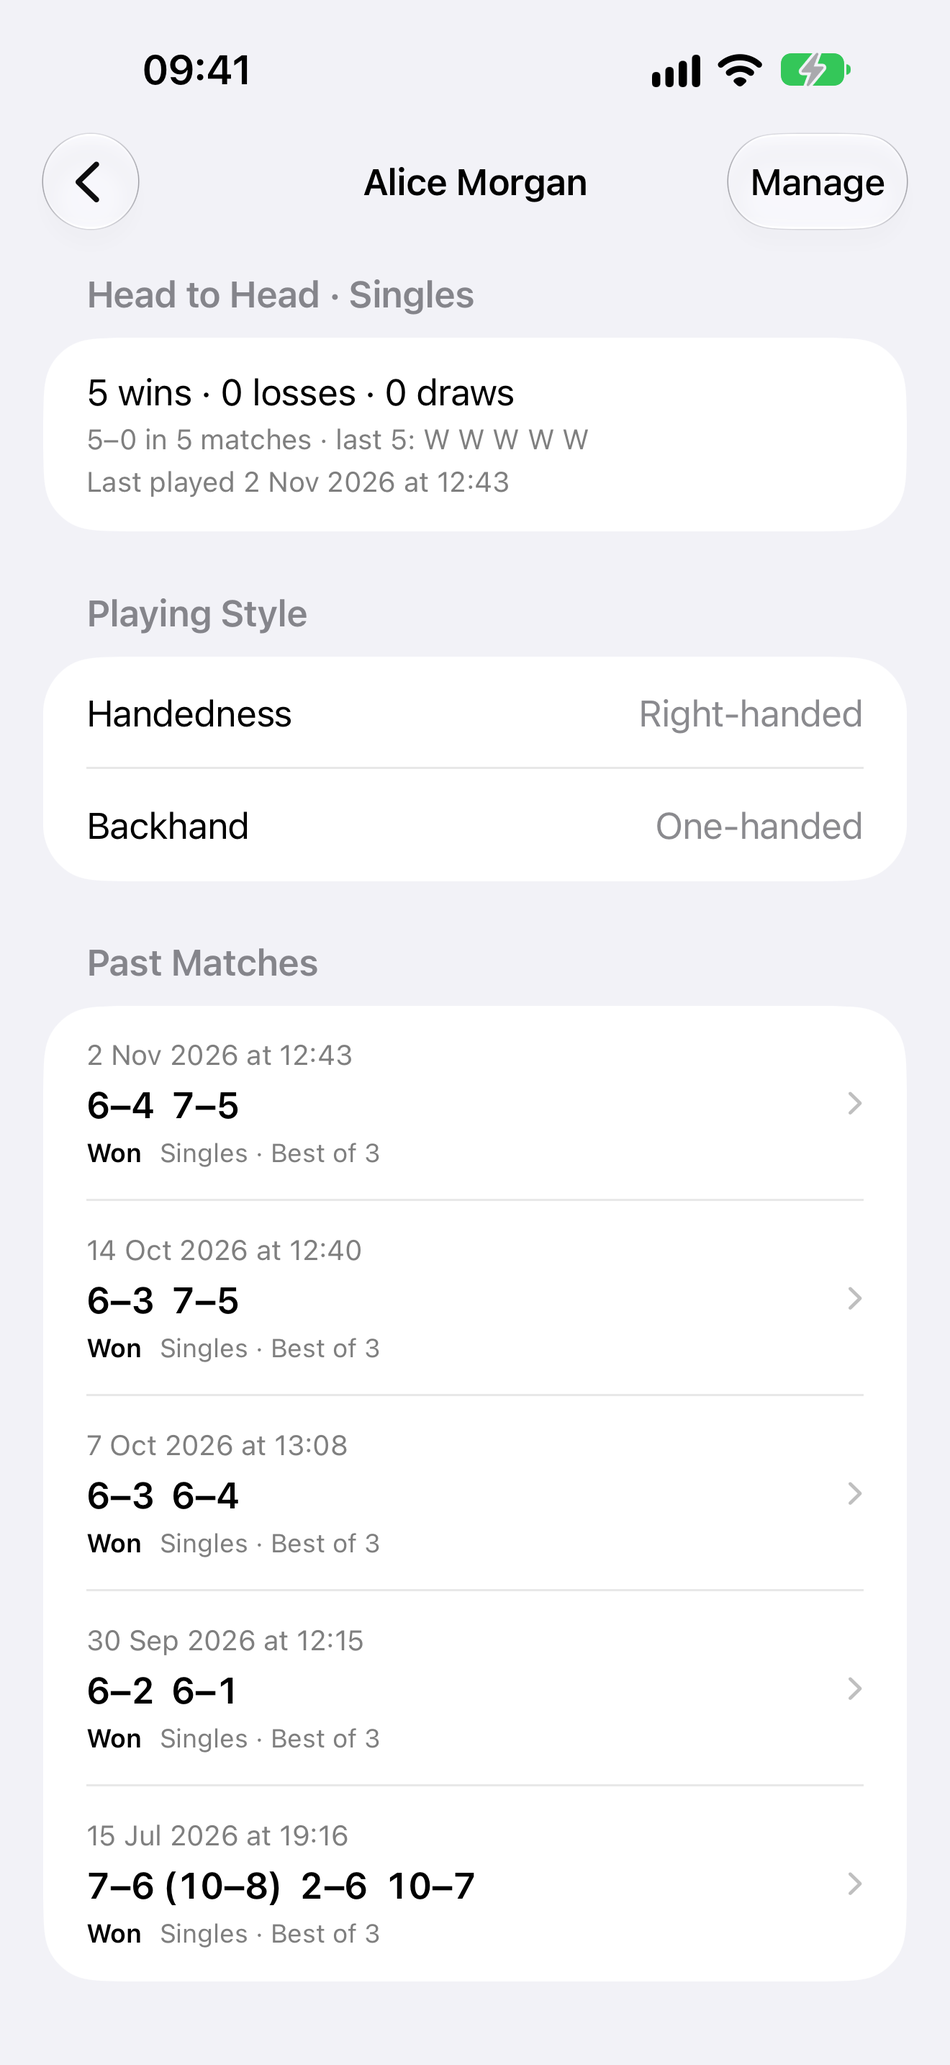
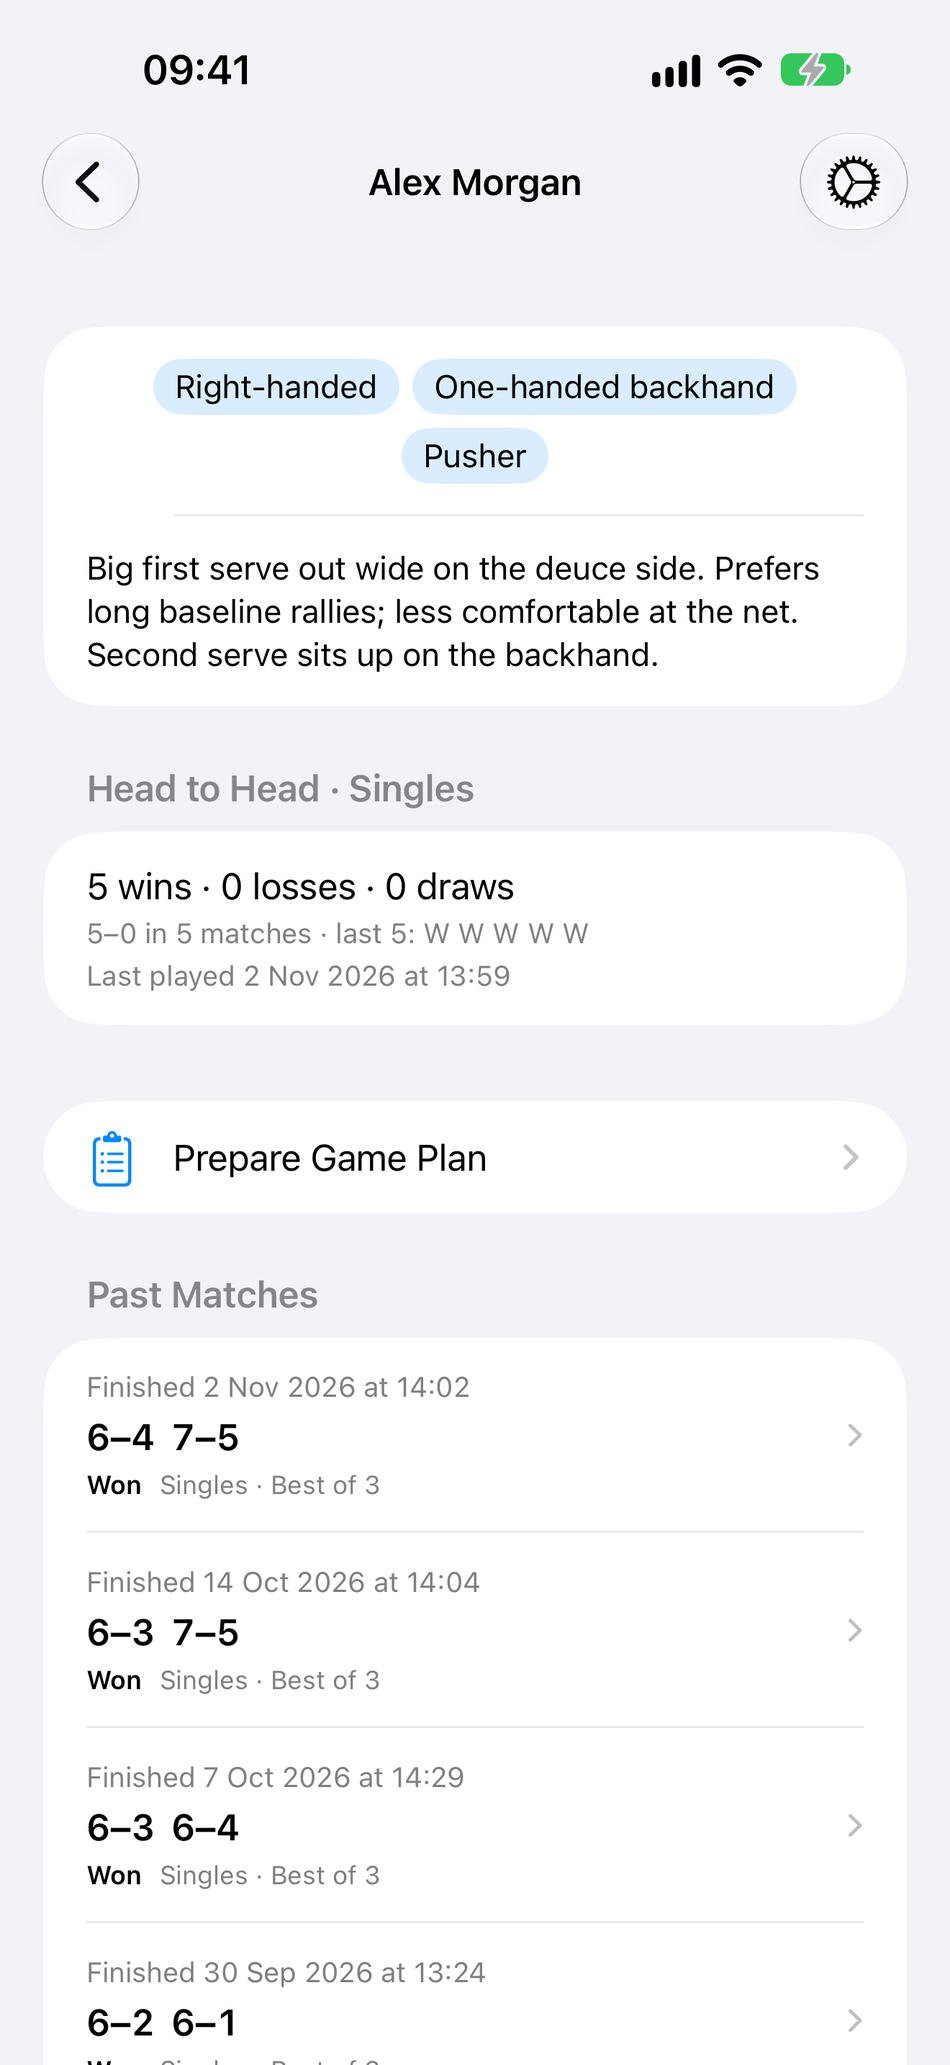
docs(release): finalise 1.4.0 submission text and screenshots (#213)
The owner approved 1.4.0 after testing on the same iPhone 16 (iOS 27.2) and
Apple Watch Series 7 (watchOS 26.6) as 1.3.1. This finalises the App Store copy
and adds #209-#212 to the scope. None of these files is published, so they can
merge before submission. The website, demo, README and privacy policy stay in
#201 until 1.4.0 is approved.

- What's New and App Review notes are final, with the landscape scoreboard and
  the tested devices.
- New promotional text and a "fast4" keyword are ready for the 1.4.0 version
  page. The description gains playing-style notes and Game Plan bullets.
- Recaptured the opponent page (slot 9) and added a Game Plan screenshot,
  replacing Match Stats in the upload set. A new opt-in
  ScreenshotTests.test_captureGamePlanScreens captures both from a sanitized archive.

diff --git a/DeuceMate/DeuceMateUITests/ScreenshotTests.swift b/DeuceMate/DeuceMateUITests/ScreenshotTests.swift
@@ -167,6 +167,44 @@ final class ScreenshotTests: XCTestCase {
         XCTAssertTrue(disclosure.waitForExistence(timeout: 10))
     }
 
+    /// The 1.4.0 opponent page (condensed Playing Style card, gear for Manage)
+    /// and Prepare Game Plan, opened from it. Shows names and playing-style
+    /// notes, so seed a sanitized archive as for `test_captureMatchInfoScreens`
+    /// and set DEUCEMATE_OPPONENT_NAME to its most-played singles opponent.
+    @MainActor
+    func test_captureGamePlanScreens() throws {
+        let app = XCUIApplication()
+        app.launch()
+        XCTAssertTrue(app.navigationBars["Matches"].waitForExistence(timeout: 20))
+
+        let opponentsLink = app.buttons["opponents-section-link"]
+        for _ in 0..<4 where !opponentsLink.exists {
+            app.swipeUp()
+        }
+        XCTAssertTrue(opponentsLink.waitForExistence(timeout: 10))
+        opponentsLink.tap()
+        let opponentName = ProcessInfo.processInfo.environment["DEUCEMATE_OPPONENT_NAME"] ?? "Alice Morgan"
+        let opponentRow = app.buttons
+            .matching(NSPredicate(format: "identifier BEGINSWITH 'opponent-row-' AND label CONTAINS %@", opponentName))
+            .firstMatch
+        XCTAssertTrue(opponentRow.waitForExistence(timeout: 10))
+        opponentRow.tap()
+        XCTAssertTrue(app.buttons["opponent-manage-player"].waitForExistence(timeout: 10))
+        Thread.sleep(forTimeInterval: 1)
+        saveScreenshot("09-opponent-head-to-head")
+
+        let prepare = app.buttons["opponent-prepare-game-plan"]
+        for _ in 0..<4 where !prepare.isHittable {
+            app.swipeUp()
+        }
+        XCTAssertTrue(prepare.waitForExistence(timeout: 10))
+        prepare.tap()
+        XCTAssertTrue(app.navigationBars["Prepare Game Plan"].waitForExistence(timeout: 10))
+        // Let the debounced off-main build finish so the estimate is filled in.
+        Thread.sleep(forTimeInterval: 3)
+        saveScreenshot("10-game-plan")
+    }
+
     /// Coaching Insights, from a match that earns several ranked observations.
     /// Point DEUCEMATE_TARGET_MATCH_ID at that match for this run.
     @MainActor

diff --git a/docs/release/APP_STORE_METADATA.md b/docs/release/APP_STORE_METADATA.md
@@ -24,13 +24,15 @@ statistics. The submission is the iOS app (`ehsan.DeuceMate`); the watchOS app
 ## Promotional Text (170 characters max)
 
 ```
-Now track who you play: head-to-head records, match comparisons and private notes, alongside Apple Watch scoring and AI coaching. Free forever. No ads, no tracking.
+Plan for your next opponent with Game Plan, play FAST4, and track who you play, with Apple Watch scoring and AI coaching. Free forever. No ads, no tracking.
 ```
 
-**Character count:** 164 characters. Proposed for the 1.3.0 submission. It held
-back until 1.3.0 was approved because it describes 1.3.0 features, and it went
-live with 1.3.0 on 4 November 2026. The previous
-text (since the 1.1.0 submission, 19 August 2026): "Score on Apple Watch, tag how every point ended, then hand the match to your favourite AI for real coaching. Free forever. No ads, no tracking."
+**Character count:** 156 characters. Proposed for the 1.4.0 submission. Enter it
+on the 1.4.0 version page so it goes live with that version: it describes 1.4.0
+features, so it must not replace the live text before 1.4.0 is approved.
+
+The current live text (since 1.3.0, 4 November 2026): "Now track who you play: head-to-head records, match comparisons and private notes, alongside Apple Watch scoring and AI coaching. Free forever. No ads, no tracking."
+Before that (since the 1.1.0 submission, 19 August 2026): "Score on Apple Watch, tag how every point ended, then hand the match to your favourite AI for real coaching. Free forever. No ads, no tracking."
 
 Two deliberate choices carried over from the previous line:
 
@@ -53,14 +55,17 @@ file starts lying about what users actually see.
 ## Keywords (100 characters max)
 
 ```
-tennis,score,match,tiebreak,sports,watch,referee,umpire,deuce,padel,game,set,stats,opponent
+tennis,score,match,tiebreak,sports,watch,referee,umpire,deuce,padel,game,set,stats,opponent,fast4
 ```
+
+**Character count:** 97 of 100.
 
 **Optimization Notes:**
 - Focus on tennis-specific terms (deuce, tiebreak, set)
 - Include "padel" for the international tennis variant
 - "stats" covers the iPhone statistics feature set
 - "opponent" covers the 1.3.0 head-to-head records
+- "fast4" covers the format added in 1.4.0 (a common search term in club tennis)
 - No spaces after commas to maximize character count
 
 ---
@@ -132,6 +137,8 @@ KNOW WHO YOU PLAYED
 • See head-to-head records against each opponent
 • Compare a match with your previous one
 • Keep private notes that stay on your iPhone
+• Note how each player plays, in your own words
+• Prepare a game plan for your next match against an opponent, ready for the AI app you choose
 
 UNDERSTAND TRENDS ACROSS MATCHES
 
@@ -177,20 +184,20 @@ REQUIREMENTS
 Built by a recreational tennis player for players who want dependable scorekeeping without losing focus on the game.
 ```
 
-**Character count:** 3,765 characters (including line breaks; under 4,000)
+**Character count:** 3,935 characters (including line breaks; under 4,000). 1.4.0 adds
+the playing-style notes and Game Plan bullets under KNOW WHO YOU PLAYED.
 
 ---
 
 ## What's New (4000 characters max)
 
-> **Next release:** before finalising its text, confirm the manual testing gate in
-> [`SUBMISSION_REVIEW.md`](SUBMISSION_REVIEW.md#next-release--manual-testing-gate)
-> is complete. #174 and #175 have not been tested on a physical Watch yet.
-
 ### Version 1.4.0 - Game Plan, FAST4 and play sessions
 
-> **Draft — not final.** Written before the manual testing gate was complete.
-> Remove any line whose feature fails device testing or is deferred.
+**Final.** The owner approved this version for release on 19 November 2026 after
+testing it on the same iPhone and Apple Watch as 1.3.1 (see
+[`SUBMISSION_REVIEW.md`](SUBMISSION_REVIEW.md#release-candidate--140-build-18-13-november-2026)).
+It now also covers #209–#212: the reconnect recovery is part of the live
+scoreboard line, and that line says the scoreboard opens in landscape.
 
 ```
 Plan for your next match against a familiar opponent, and play FAST4.
@@ -214,7 +221,7 @@ NEW: MATCH FORMATS
 
 IMPROVED
 • When you resume a match, its reports show each session you played, and matches are listed by when they finished.
-• The iPhone live scoreboard shows when it can't reach your Apple Watch, pauses scoring from iPhone until it reconnects, and catches up automatically when your Watch is back in range. Watch changeover and "Who serves next?" prompts also appear on iPhone and can be answered there when iPhone Input is on.
+• The iPhone live scoreboard opens straight in landscape. It shows when it can't reach your Apple Watch, pauses scoring from iPhone until it reconnects, and catches up automatically when your Watch is back in range. Watch changeover and "Who serves next?" prompts also appear on iPhone and can be answered there when iPhone Input is on.
 • Split Trends' Serve & Return charts by deuce and ad side.
 • Player details and notes save only when you tap Save, so a stray edit can't overwrite them.
 • Workouts save to Health more reliably, including after the Watch app closes unexpectedly, and Apple Watch tells you if saving fails.
@@ -223,13 +230,14 @@ IMPROVED
 No account, subscription, ads, or tracking — just your tennis, on your devices.
 ```
 
-**Character count:** 2,038 characters (including line breaks; under 4,000)
+**Character count:** 2,070 characters (including line breaks; under 4,000)
 
 > **Scope.** The shipping targets are configured as version **1.4.0 (18)**. The
 > comparison baseline is the released `v1.3.1` tag; 1.3.2 and 1.3.3 were
 > TestFlight-only. This is a minor release because Game Plan, playing-style
 > notes and the new formats add user-facing features, the same reasoning as
-> 1.2.0 and 1.3.0. Revise this text if anything else merges before the archive.
+> 1.2.0 and 1.3.0. Quick 4 Games isn't listed: it was in 1.3.1 too, and #205
+> only undid its removal before release.
 
 ### Version 1.3.1 - Trends filters and swipe vibration
 
@@ -581,10 +589,11 @@ When completing the App Privacy questionnaire in App Store Connect:
   **1.4.0 to re-confirm:** Prepare Game Plan starts with player names and
   playing-style notes included (and remembers those choices), while private
   match notes stay off on every visit and require switching on and reviewing
-  the exact text first (#200). `docs/website/privacy.html` is out of date on
-  main: it still says AI prompts leave names out by default, and it doesn't
-  mention Game Plan, remembered name/style-note choices, or "Your name". Update
-  it before submission. Otherwise the private note enters a
+  the exact text first (#200). The matching `docs/website/privacy.html` update
+  is PR #201, held with the 1.4.0 website changes until 1.4.0 is approved: the
+  page is live on merge and would otherwise describe features the store build
+  doesn't have. None of 1.4.0 changes the "Data Not Collected" answer; re-check
+  the label on the 1.4.0 version page. Otherwise the private note enters a
   report, AI prompt or manual archive only through a separate per-export
   "Include private note(s)" opt-in (off every time) that shows the exact text,
   states it may hold personal or health information, and warns when names are
@@ -632,11 +641,11 @@ App Review Information persists across versions in App Store Connect, so the
 previous submission's text is probably still sitting in the field — check it
 rather than assuming the field is empty.
 
-### Draft for 1.4.0
+### 1.4.0
 
-> **Draft — not final.** Finalise it with the What's New text once the manual
-> testing gate is complete. Before submitting, confirm on a phone with no Watch
-> that the manual-entry route below does reach Prepare Game Plan.
+Final, with the What's New text above. Paste it in place of the 1.3.1 text that
+App Store Connect carries over. The manual-entry route to Prepare Game Plan is
+on the submission checklist in `SUBMISSION_REVIEW.md`.
 
 ```
 This is an update to a previously approved app. No new
@@ -660,8 +669,9 @@ WHAT CHANGED IN 1.4.0
   receiver chooses the side.
 - Both: resumed matches record each play session, and matches are listed by
   finish date.
-- Both: the iPhone live scoreboard shows when the Watch can't be reached, pauses
-  iPhone input until it reconnects, and catches up automatically on reconnect.
+- Both: the iPhone live scoreboard opens in landscape, shows when the Watch can't
+  be reached, pauses iPhone input until it reconnects, and catches up
+  automatically on reconnect.
   Watch changeover and "Who serves next?" prompts now appear on iPhone and can
   be answered from iPhone when iPhone Input is enabled.
 - iPhone: Trends' Serve & Return charts can be filtered by Both Sides, Deuce or
@@ -691,12 +701,12 @@ HealthKit (Watch at first launch; iPhone for per-point heart rate) and location
 usable with every prompt denied. No ATT, camera, mic, photos, contacts,
 calendar, notifications or Bluetooth.
 
-Devices tested: <fill in after TestFlight testing>.
+Devices tested: iPhone 16 (iOS 27.2) and Apple Watch Series 7 GPS (watchOS 26.6).
 ```
 
-### 1.3.1 (submitted)
+### 1.3.1 (released)
 
-Use the following for the 1.3.1 submission. It is comfortably under the 4,000-
+Used for the 1.3.1 submission. It is comfortably under the 4,000-
 character field limit.
 
 ```

diff --git a/docs/release/SUBMISSION_REVIEW.md b/docs/release/SUBMISSION_REVIEW.md
@@ -29,14 +29,30 @@ name in reports and AI prompts with AI Coach names on by default (#197), a
 separate name for announcements (#198), version/build in the Watch Guide
 (#202), live reconnect recovery with Watch-confirmed iPhone input (#203),
 Watch changeover / "Who serves next?" prompts shown and answerable on iPhone
-(#204), and Trends' Serve & Return split by deuce and ad side (#206). #192
+(#204), Trends' Serve & Return split by deuce and ad side (#206), live score
+recovery after the Watch reconnects (#209, #210, #211) and a live scoreboard
+that opens straight in landscape (#212). #192
 raised the watchOS minimum for the Watch **test** targets only; the shipping
 Watch app stays on watchOS 9.0.
 
-This candidate has not yet been archived, uploaded or tested on physical devices.
-Test targets keep their non-shipping version/build values. Build 18 is the next
-number recorded in this repository; confirm it is still unused in App Store
-Connect before upload, as Xcode has raised build numbers during previous uploads.
+**Owner approval, 19 November 2026.** The owner reported that this version was
+tested on the same devices as 1.3.1, iPhone 16 (iOS 27.2) and Apple Watch Series
+7 GPS (watchOS 26.6), and approved it for release. As with 1.3.0, the individual
+checks below and in the manual testing gate were not confirmed one by one, so
+their boxes stay open as a record of what the testing was meant to cover rather
+than as proof that each one ran.
+
+Test targets keep their non-shipping version/build values. Build 18 is the
+number recorded in this repository; Xcode has raised build numbers during
+previous uploads, so record the build App Store Connect actually shows for the
+submission here.
+
+**Website, README and demo wait for approval.** `docs/website/` is live on merge,
+so PR #201 holds the privacy policy update together with the 1.4.0 website copy,
+browser demo, website screenshots and README changes. Merge it once 1.4.0 is
+approved and released, updating the privacy policy's Last Updated date to the
+merge date. This document and `APP_STORE_METADATA.md` are not published, so they
+merge before submission.
 
 - [ ] Install it through TestFlight as an upgrade over the currently installed
   build. Confirm both apps report `1.4.0 (18)` (or the build number assigned at
@@ -53,10 +69,10 @@ Connect before upload, as Xcode has raised build numbers during previous uploads
   Include player names on, and that announcements say the short name (#197, #198).
 - [ ] Edit a player and a match note, then leave without saving. Confirm nothing
   is overwritten and emptying notes asks before deleting them (#194, #195).
-- [ ] **Blocker:** update `docs/website/privacy.html` for 1.4.0. It still says AI
-  prompts leave names out by default, and doesn't mention Game Plan, remembered
-  name/style-note choices, or "Your name" (#193, #197, #200). Then
-  re-confirm the App Privacy label, as noted in `APP_STORE_METADATA.md`.
+- [ ] Merge PR #201 (privacy policy for 1.4.0, plus the website, demo and README)
+  once 1.4.0 is approved and released. It still says AI prompts leave names out
+  by default until then. Re-confirm the App Privacy label ("Data Not Collected")
+  on the 1.4.0 version page, as noted in `APP_STORE_METADATA.md`.
 - [ ] Play a Short Sets and a FAST4 match on the Watch, including a tiebreak and a
   deciding point at deuce, and check the "Receiver chooses side" banner (#186).
   Start a Quick 4 Games match from setup and play it to 2–2 and the sudden-death
@@ -67,9 +83,16 @@ Connect before upload, as Xcode has raised build numbers during previous uploads
   clears both screens (#204).
 - [ ] In Trends > Serve & Return, switch between Both Sides, Deuce and Ad and
   confirm the filter persists across launches (#206).
-- [ ] Finalise the draft
-  [What's New and App Review notes](APP_STORE_METADATA.md#version-140---game-plan-fast4-and-play-sessions)
-  against what passed. Remove any line whose feature is deferred.
+- [x] Finalise the
+  [What's New and App Review notes](APP_STORE_METADATA.md#version-140---game-plan-fast4-and-play-sessions),
+  including #209–#212 and the tested devices.
+- [ ] On an iPhone with no Watch paired, follow the App Review notes' manual-entry
+  route to Prepare Game Plan.
+- [ ] In App Store Connect, on the 1.4.0 version page: promotional text, keywords,
+  description, What's New, App Review notes, the build, and the iPhone screenshots
+  listed under "What changed for 1.4.0" in
+  [`docs/app-store-screenshots/README.md`](../app-store-screenshots/README.md).
+- [ ] Submit for review.
 - [ ] Tag the uploaded commit `v1.4.0`.
 
 ## Workout save investigation — 9 November 2026
@@ -127,6 +150,10 @@ for current-state confirmation and one request in flight; no tests were skipped
 or assertions weakened to hide a failure.
 
 ## Next release — manual testing gate
+
+**1.4.0:** the owner approved the release on 19 November 2026 after testing on the
+same devices as 1.3.1; see the release candidate section above. The boxes below
+were not confirmed one by one.
 
 **Before writing release notes for the release after 1.3.1, confirm that every
 box below is ticked.** Two changes merged since `v1.3.1` have not been tested on a

diff --git a/docs/app-store-screenshots/README.md b/docs/app-store-screenshots/README.md
@@ -22,11 +22,23 @@ through. All ten are 1320 x 2868 with no alpha — a set must be one size.
 | 3 | `iphone-6.9-marketing/03-ai-coach.png` | ad — AI coach hand-off |
 | 4 | `iphone-6.9/01-match-overview.png` | raw — result, Match Info and graph |
 | 5 | `iphone-6.9/08-compare-previous-match.png` | raw — Compare with Previous Match |
-| 6 | `iphone-6.9/03-match-stats.png` | raw |
-| 7 | `iphone-6.9/04-coaching-insights.png` | raw — ranked Coaching Insights |
-| 8 | `iphone-6.9/05-match-archive.png` | raw — Trends, Opponents and match history |
-| 9 | `iphone-6.9/09-opponent-head-to-head.png` | raw — opponent head-to-head and profile |
-| 10 | `iphone-6.9/06-trends-overview.png` | raw — Trends filters and Errors |
+| 6 | `iphone-6.9/04-coaching-insights.png` | raw — ranked Coaching Insights |
+| 7 | `iphone-6.9/05-match-archive.png` | raw — Trends, Opponents and match history |
+| 8 | `iphone-6.9/06-trends-overview.png` | raw — Trends filters and Errors |
+| 9 | `iphone-6.9/09-opponent-head-to-head.png` | raw — opponent playing style, head-to-head and Prepare Game Plan |
+| 10 | `iphone-6.9/10-game-plan.png` | raw — Prepare Game Plan, ready on arrival |
+
+### What changed for 1.4.0
+
+- **Remove in App Store Connect:** the 1.3.1 slot 6 (`03-match-stats.png`) and
+  slot 9 (the old opponent page).
+- **Upload, in this order:** the recaptured `iphone-6.9/09-opponent-head-to-head.png`
+  (condensed Playing Style card with notes, gear for Manage, Prepare Game Plan)
+  and the new `iphone-6.9/10-game-plan.png`. New uploads land at the end, so the
+  result is the order in the table above with no dragging: Trends moves up to
+  slot 8.
+- `03-match-stats.png` stays in this folder but is no longer uploaded. Ad 02
+  already shows match analysis, and Game Plan is 1.4.0's headline feature.
 
 ### What changed for 1.3.1
 
@@ -63,7 +75,7 @@ Watch section, where framing a Watch inside a drawn Watch adds nothing.
 
 Directory: [`iphone-6.9/`](./iphone-6.9/)
 
-All nine PNGs are **1320 x 2868**, portrait, with no alpha. Items 2 and 3 were
+All ten PNGs are **1320 x 2868**, portrait, with no alpha. Items 2 and 3 were
 captured on the iPhone 17 Pro Max simulator using the point-tracked match
 `44ACB61B-BBF0-444C-86BC-2A0125E0DF6D` (5 August 2026, 3-6 1-6, 124 tracked
 points), from `deucemate_archive_2026-08-06.json`. Items 5–7 were captured in
@@ -91,7 +103,16 @@ of the same archive.
    since 1.3.0)
 8. `08-compare-previous-match.png` - this match next to the previous match against
    the same opponent
-9. `09-opponent-head-to-head.png` - head-to-head, playing style, and past matches
+9. `09-opponent-head-to-head.png` - playing style card with notes, head-to-head,
+   Prepare Game Plan, and past matches
+10. `10-game-plan.png` - Prepare Game Plan as it opens: Upcoming, Matches,
+    Includes, Focus and the hand-off
+
+Items 9 and 10 were captured on 19 November 2026 for 1.4.0 on the iPhone 18 Pro
+Max simulator (iOS 27.2) by `ScreenshotTests.test_captureGamePlanScreens`, from a
+sanitized copy of the owner's 19 November archive: every player renamed to a
+generic name, all private notes removed, and the playing-style notes replaced by
+one invented note on the opponent shown.
 
 This one 6.9-inch set satisfies the iPhone screenshot-size requirement; do not
 mix in the older 6.3/6.5-inch files from `docs/website/screenshots/` for this

diff --git a/docs/screenshots/README.md b/docs/screenshots/README.md
@@ -96,7 +96,10 @@ a match with several insights for the second, and pass the same
 `TEST_RUNNER_DEUCEMATE_CAPTURE_SCREENSHOTS` and
 `TEST_RUNNER_DEUCEMATE_SCREENSHOT_OUTPUT_DIR` values. `test_captureTrendsOverview`
 takes the same setup on a freshly seeded simulator, so the persisted filters are
-at their defaults. Override
+at their defaults. `test_captureGamePlanScreens` captures the opponent page and
+Prepare Game Plan (`09-opponent-head-to-head`, `10-game-plan`) on a sanitized
+archive; set `TEST_RUNNER_DEUCEMATE_OPPONENT_NAME` to its most-played singles
+opponent. Override
 `status_bar` to 09:41 first (`xcrun simctl status_bar <udid> override --time 9:41`).
 `test_captureAICoachSheet` needs dark appearance and a physical device if the
 AI app rows must show, because the simulator has none installed. Rebuild the ads
